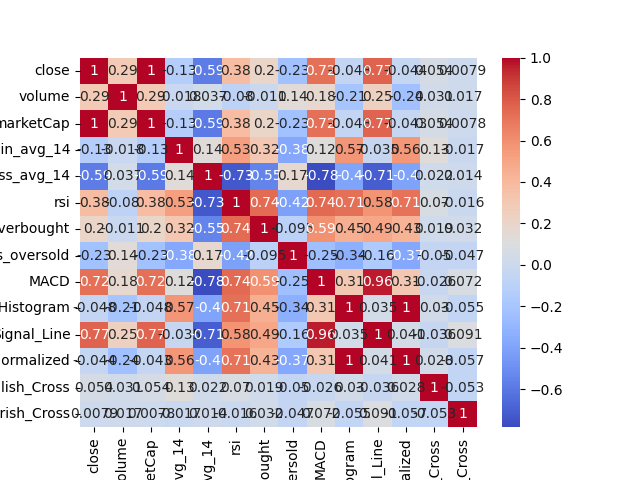
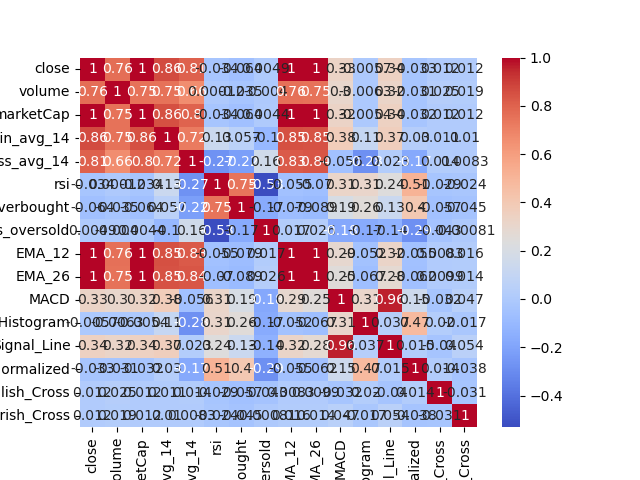
хитмапа расширена (EMA) и добавлены комментарии к коду

diff --git a/zub.py b/zub.py
@@ -1,5 +1,4 @@
 from datetime import date
-
 import pandas as pd
 import numpy as np
 
@@ -11,21 +10,22 @@ import seaborn as sns
 import matplotlib.pyplot as plt
 
 # Загрузка данных
-df = pd.read_csv('BTC_merged_2010_to_2025.csv')a
+df = pd.read_csv('df_analyss.csv')
 metrics= ['close', 'volume', 'marketCap']
 
 
-print(df.info())
-print(df.columns)
-df_no_time = df.drop(columns=['timeOpen', 'timeClose', 'timeHigh', 'timeLow', 'name'])
-#преобразование даты
-df_no_time['timestamp'] = pd.to_datetime(df['timestamp']).dt.strftime('%Y-%m-%d %H:%M:%S')
-df_no_time['date'] = pd.to_datetime(df['timestamp']).dt.date
-df_no_time = df_no_time.drop(columns=['timestamp'])
+# print(df.info())
+# print(df.columns)
+# df_no_time = df.drop(columns=['timeOpen', 'timeClose', 'timeHigh', 'timeLow', 'name'])
+# #преобразование даты
+# df_no_time['timestamp'] = pd.to_datetime(df['timestamp']).dt.strftime('%Y-%m-%d %H:%M:%S')
+# df_no_time['date'] = pd.to_datetime(df['timestamp']).dt.date
+# df_no_time = df_no_time.drop(columns=['timestamp'])
+#
+# df_no_time = df_no_time[df_no_time['date'] >= date(2025, 1, 1)]
+# df_no_time = df_no_time.reset_index(drop=True)
 
-df_no_time = df_no_time[df_no_time['date'] >= date(2025, 1, 1)]
-df_no_time = df_no_time.reset_index(drop=True)
-
+df_no_time = df
 #рассчет среднего, прибыли и убытка
 df_no_time['change'] = df_no_time['close'] - df_no_time['open']
 df_no_time['gain']=df_no_time['change'].apply(lambda x: x  if x > 0 else 0)
@@ -42,6 +42,12 @@ metrics.append('loss_avg_14')
 df_no_time['rs'] = (df_no_time['gain_avg_14'] / df_no_time['loss_avg_14']).apply(lambda x: round(x, 2))
 df_no_time['rsi'] = (100 - (100 / (1 + df_no_time['rs']))).apply(lambda x: round(x, 2))
 metrics.append('rsi')
+#rsi - это своеобразный спижометр для цены - rs считаем как отношение суммы ПРИРОСТОВ за 14 дней к сумме ПАДЕНИЙ за 14 дней
+#--можно не за 14 дней--
+#rsi - это приведение rs к процентному виду
+#если rsi > 70 - актив перекуплен - это сигнал к падению
+#если rsi < 30 - актив перепродан - это сигнал к росту
+
 #метрики по rsi
 df_no_time['is_overbought'] = (df_no_time['rsi'] > 70) * 1
 df_no_time['is_oversold'] = (df_no_time['rsi'] < 30) * 1
@@ -51,6 +57,25 @@ metrics.append('is_oversold')
 
 df_no_time['EMA_12'] = df_no_time['close'].ewm(span=12, adjust=False).mean()
 df_no_time['EMA_26'] = df_no_time['close'].ewm(span=26, adjust=False).mean()
+
+metrics.append('EMA_12')
+metrics.append('EMA_26')
+
+##про EMA - это средняя цена за промежуток, но с акцентом на последние данные -
+#последние данные влияют на результат больше, чем те, что в начале промежутка
+
+#про MACD - это метрика, которая показиывает разницу (буквально разность) между двумя трендами -
+#долгосрчный и короткосрочный - эти тренды представлеют собой EMA за 21 и 12 дней соответственно
+#также существует такое понятие, как сигрнальная линия - это среднее значение MACD за последнее время(в нашем случае - за 9 дней)
+
+#MACD исследуют на дистанции - смотрят на то, как он изменяется
+#если он растет - разность между кратком и долгосрочным трендом растет - это означает бычий рост
+#наоборот - это означает медвежий рост
+#далее - про взаимосвязь с сигнальной линией MACD пересекает сигнальную снизу вверх — сигнал к покупке - у Макара тут это
+# называется золотой крест (бычье пересечение)
+#MACD пересекает сигнальную сверху вниз — сигнал к продажеMACD пересекает сигнальную снизу вверх) — сигнал к покупке
+# - мертвый крест (медвежье пересечение).
+
 df_no_time['MACD'] = df_no_time['EMA_12'] - df_no_time['EMA_26']
 df_no_time['Signal_Line'] = df_no_time['MACD'].ewm(span=9, adjust=False).mean()
 df_no_time['MACD_Histogram'] = df_no_time['MACD'] - df_no_time['Signal_Line']
